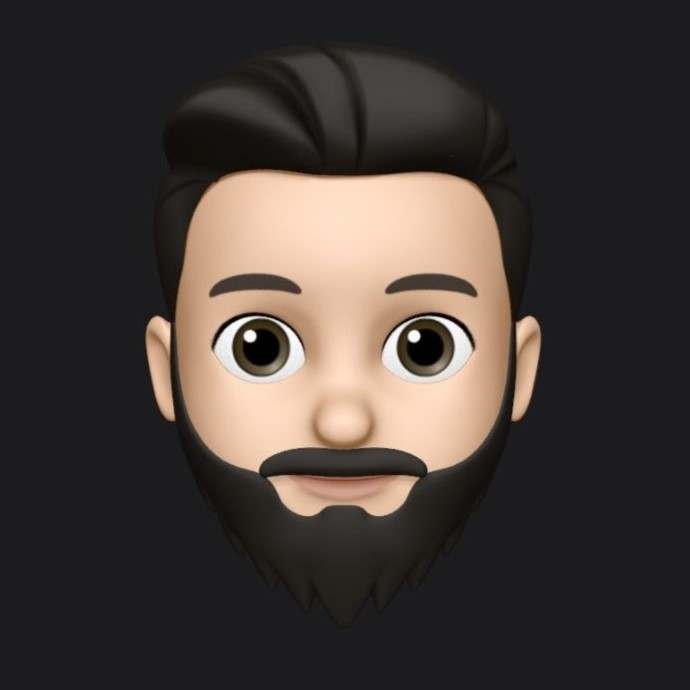
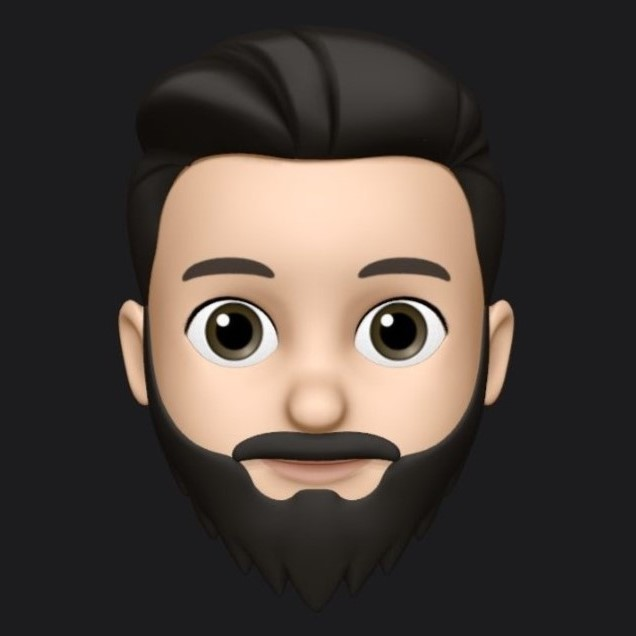
about

Changed region(s): [[0.1792, 0.239, 0.8066, 0.8066], [0.3884, 0.0597, 0.6871, 0.1195], [0.239, 0.0896, 0.3585, 0.1494]]

diff --git a/index.html b/index.html
@@ -35,7 +35,8 @@
 
         <div class="me">
           <img src="Public/myavatare.jpg" alt="myimg">
-          <h2>I design and develop visually striking, user-friendly websites</h2>
+          <h2>I design and develop visually striking, user-friendly websites <br><span>Full-Stack Devloper</span> <br><br>
+          <button>Hire Me</button></h2>
         </div>
 
       </header>
@@ -51,12 +52,16 @@
           <div class="box SA">System Analysis</div>
       </div>
 
-      <div>
-        <h1>About Me</h1>
-        <p>Hi 👋🏻, I'm Ayham Hassouneh, a Computer Science student at Al-Zaytoonah University in Jordan.
-           I'm deeply passionate about web development, blending creativity with technology,
-           and exploring the dynamic world of business to drive innovation and growth.
-           I also have a love for sports and an endless curiosity for learning new things.</p>
+      <div class="About_me">
+        <div class="about_h"><h1>About Me</h1></div>
+        <br>
+        <div class="about_p"><p>Hi 👋🏻, I'm <span>Ayham Hassouneh</span>, a <span>Software Engineer</span> student at Al-Zaytoonah University in Jordan.
+          I'm deeply passionate about web development, blending creativity with technology,
+          and exploring the dynamic world of business to drive innovation and growth.
+          I also have a love for sports and an endless curiosity for learning new things.</p></div>
+
+        <div class="about_img"><img src="Public/dumbbell-svgrepo-com.svg" alt=""></div>
+           
       </div>
       </section>
       

diff --git a/styles/About.css b/styles/About.css
@@ -113,3 +113,95 @@
         font-size: 12px;
     }
 }
+
+
+
+.About_me{
+    display: flex;
+    width: 60%;
+    padding: 25px;
+    flex-direction: column;
+    margin-top: 70px;
+    margin-left: 25px;
+}
+.about_h{
+    font-size: 2rem;
+}
+.about_p{
+    font-size: 1.4rem;
+    text-align: justify;
+}
+.about_img img{
+    width: 100px;
+    position: absolute;
+    top: 80%;
+    left: 80%;
+}
+@media(max-width: 934px){
+    .About_me{
+        width: 70%;
+        margin-left: 15px;
+    }
+    .about_img img{
+        top: 75%;
+    }
+}
+@media(max-width: 768px){
+    .about_img img{
+        width: 80px;
+        top: 79%;
+    }
+    .about_p{
+        font-size: 1.1rem;
+    }
+}
+@media(max-width: 600px){
+    .About_me{
+        width: 80%;
+        margin-left: 5px;
+    }
+    .about_img img{
+        width: 70px;
+        left: 83%;
+    }
+    .about_p{
+        font-size: 1rem;
+    }
+}
+@media(max-width: 525px){
+    .about_h{
+        font-size: 1.7rem;
+    }
+    .about_p{
+        font-size: .85rem;
+    }
+    .about_img img{
+        top: 83%;
+        width: 60px;
+    }
+}
+@media(max-width: 425px){ 
+    .About_me{
+        margin-left: 0;
+        padding: 15px;
+    }
+    .about_h{
+        font-size: 1.5rem;
+    }
+    .about_img img{
+        width: 50px;
+        top: 80%;
+    }
+}
+@media(max-width: 350px){
+    .about_h{
+        font-size: 1.3rem;
+    }
+    .about_img img{
+        width: 45px;
+        top: 83%;
+    }
+    .about_p{
+        font-size: 0.7rem;
+    }
+}

diff --git a/styles/header.css b/styles/header.css
@@ -181,6 +181,8 @@ header nav{
     }
 }
 
+/*  ================================================================  */
+
 
 
 
@@ -194,6 +196,16 @@ header nav{
     width: 250px;
     border-radius: 150px;
     justify-self: end;
+    box-shadow: 0 4px 8px rgba(255, 255, 255, 0.1), 
+                0 6px 20px rgba(255, 255, 255, 0.1); /* Softer shadow for black background */
+    border: 2px solid rgba(255, 255, 255, 0.2); /* Adds a subtle border for better visibility */
+    transition: transform 0.3s ease, box-shadow 0.3s ease, border 0.3s ease; /* Smooth animation */
+}
+.me img:hover {
+    transform: scale(1.05); /* Slight zoom-in effect */
+    box-shadow: 0 8px 16px rgba(255, 255, 255, 0.2), 
+                0 12px 40px rgba(255, 255, 255, 0.25); /* More pronounced shadow on hover */
+    border: 2px solid rgba(255, 255, 255, 0.4); /* Brightens the border on hover */
 }
 .me h2{
     font-size: 2rem;
@@ -201,6 +213,23 @@ header nav{
     margin-top: 80px;
     text-align: center;
     margin-left: 20px;
+}
+.me button{
+    width: 100px;
+    height: 50px;
+    background-color: rgba(255, 255, 255, 0);
+    color: #00bfff;
+    font-size: 1.2rem;
+    font-weight: bold;
+    cursor: pointer;
+    border: solid;
+}
+.me button:hover{
+    background-color: #00bfff;
+    color: black;
+    border: solid 5px;
+    width: 110px;
+    height: 55px;
 }
 
 

diff --git a/styles/style.css b/styles/style.css
@@ -61,4 +61,7 @@ ul{
 li a{
   text-decoration: none;
 }
+span{
+    color: #00bfff;
+}
 
